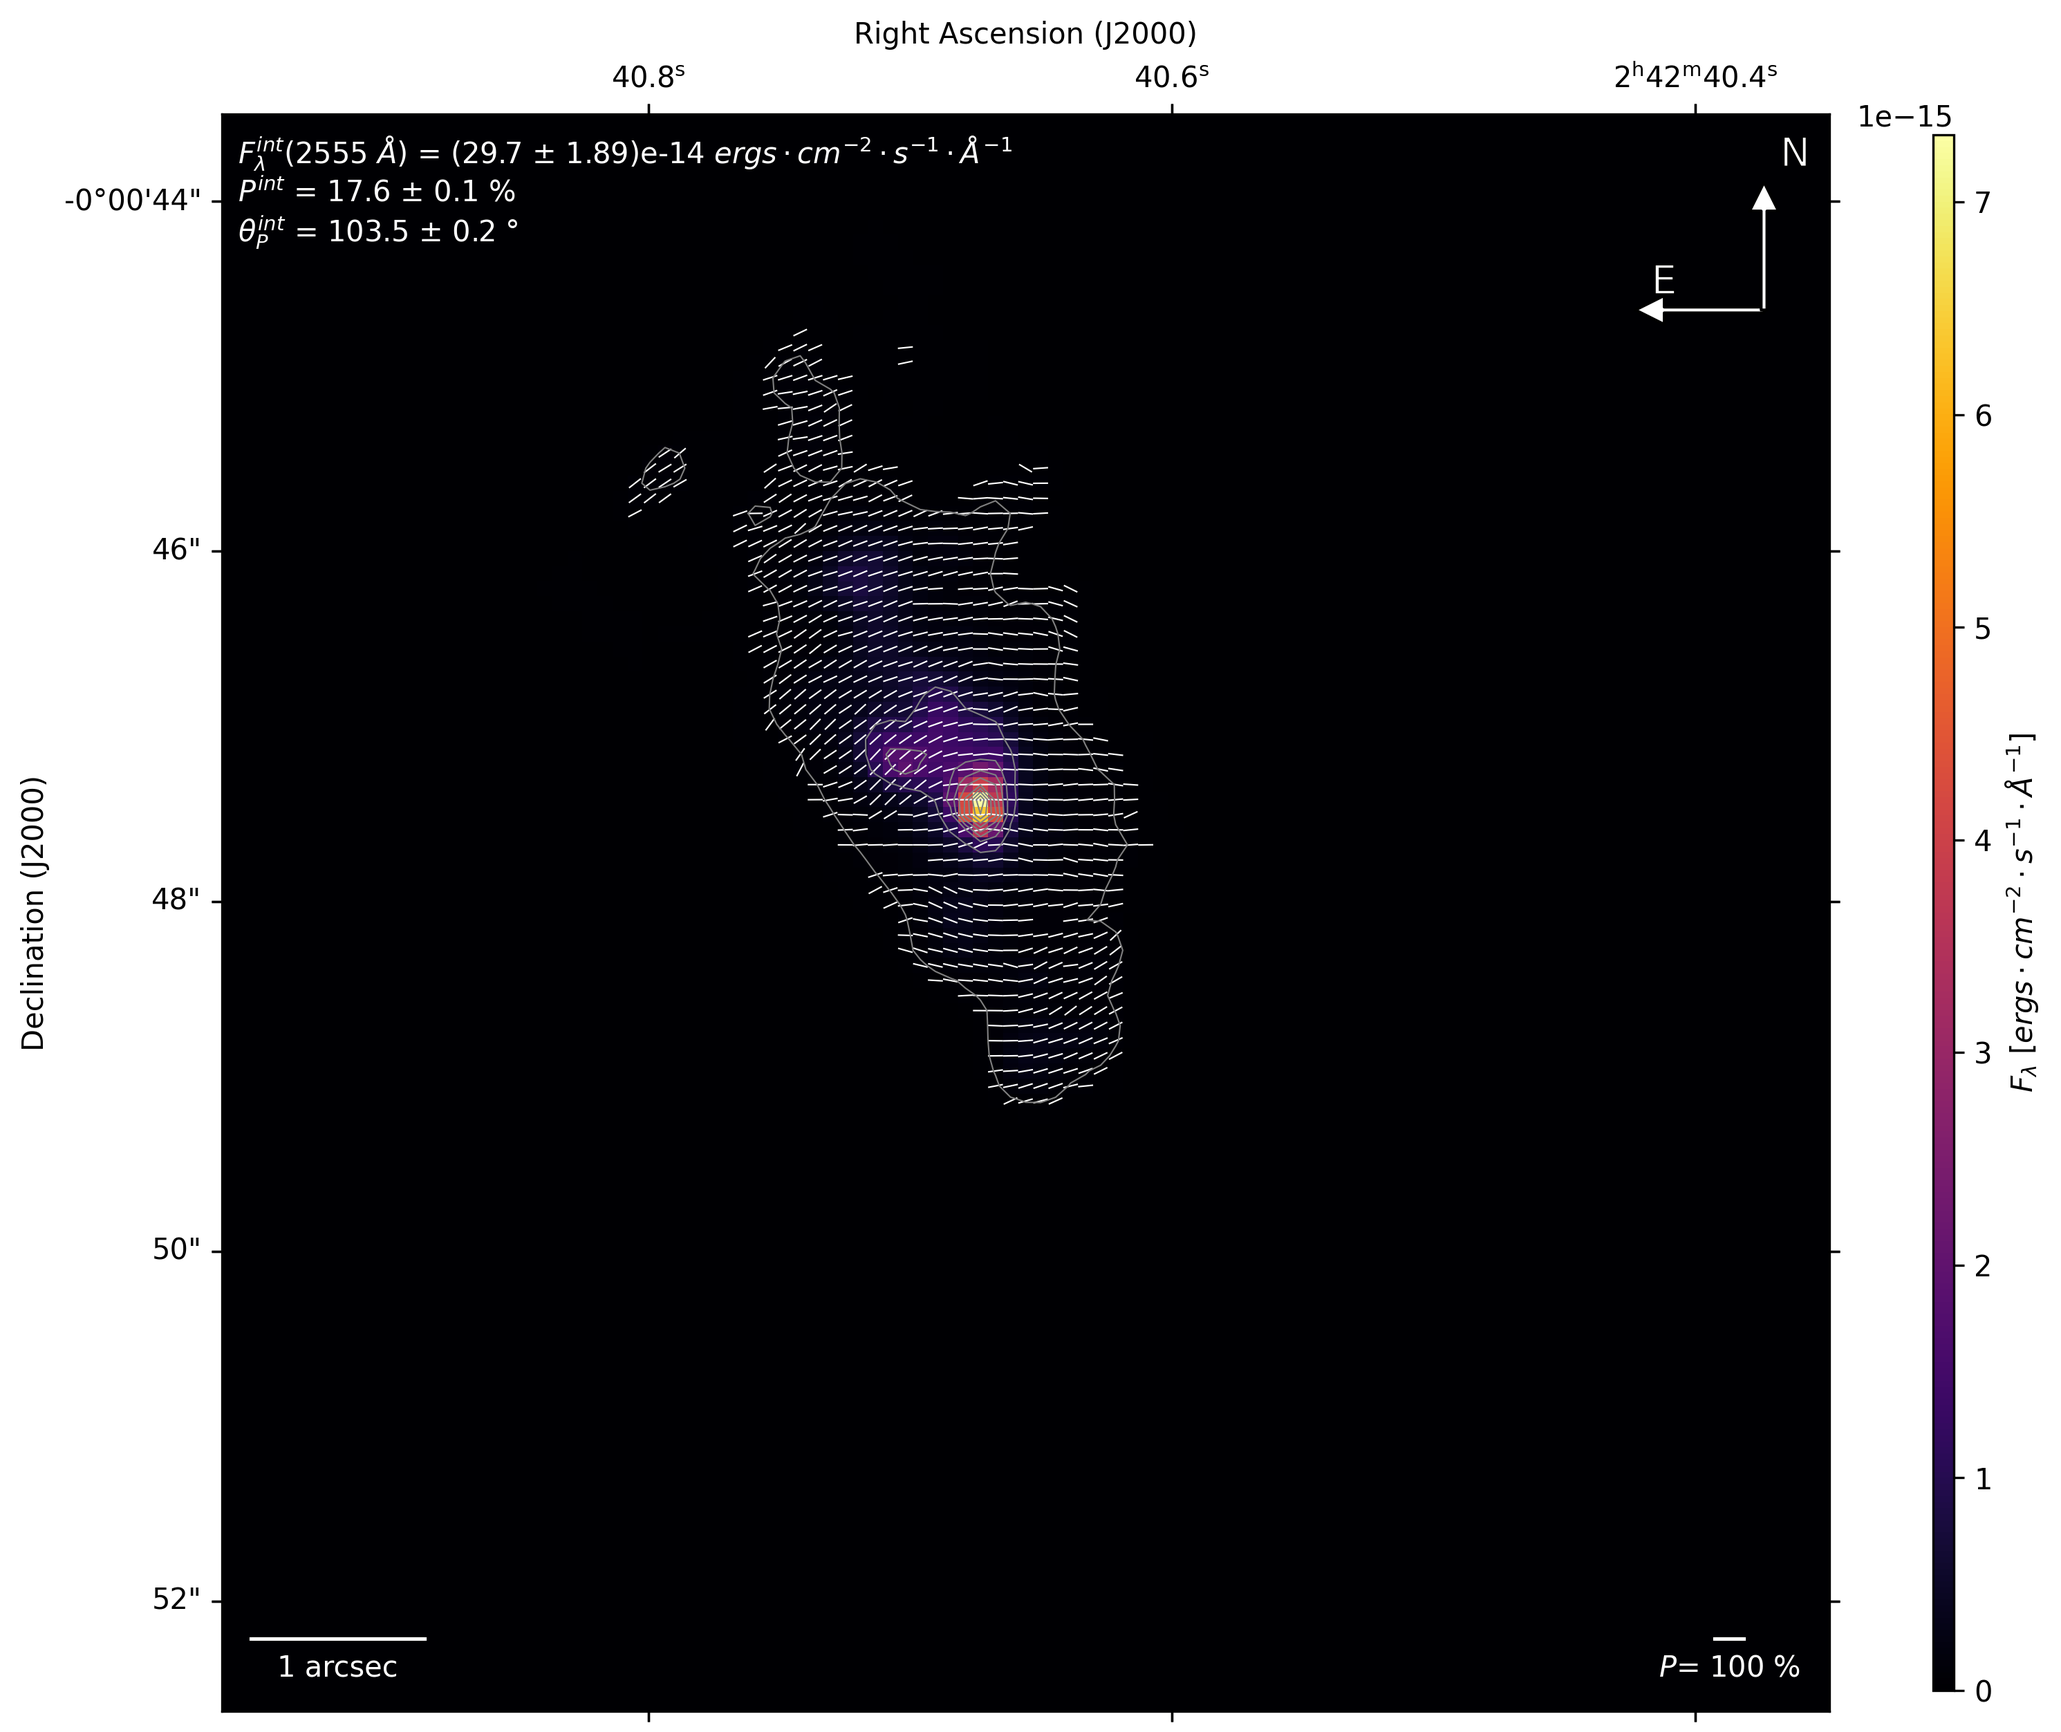
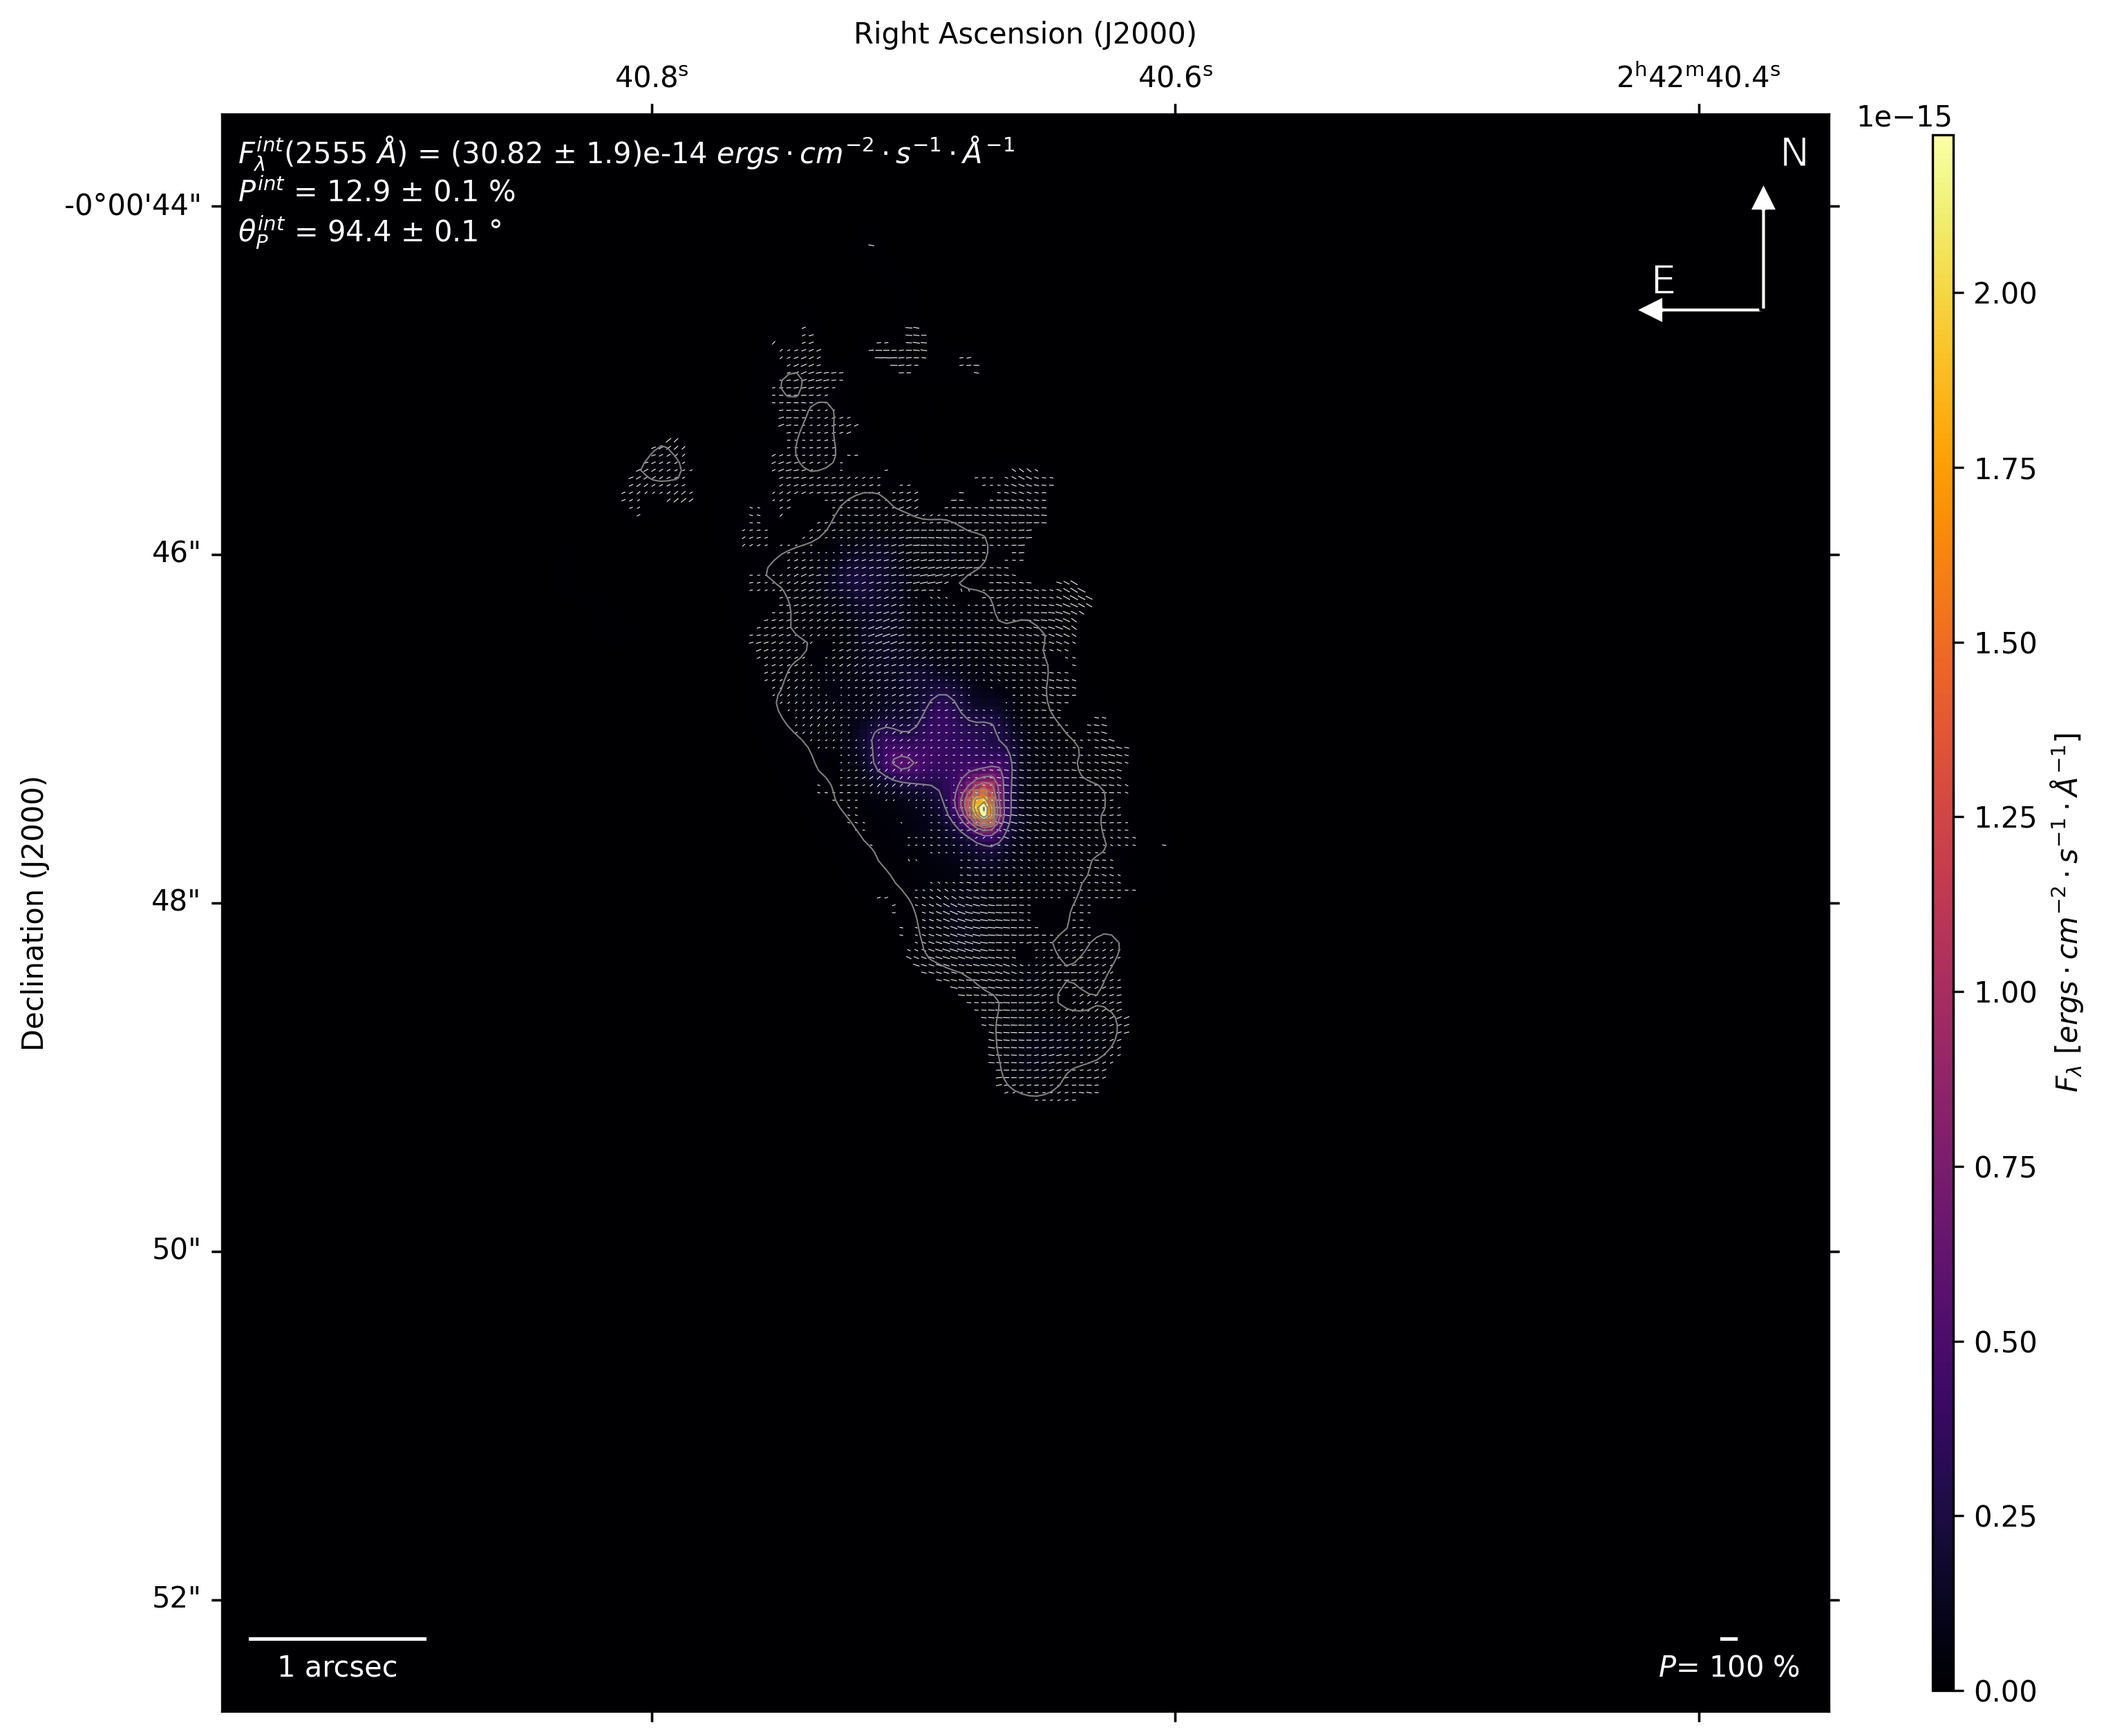
add correction factor for all polarizer filters to have same transmission efficiency

diff --git a/src/comparison_Kishimoto.py b/src/comparison_Kishimoto.py
@@ -49,7 +49,9 @@ for d in [data_S, data_K]:
     d['SNRi'] = np.zeros(d['I'].shape)
     d['SNRi'][d['sI']>0.] = d['I'][d['sI']>0.]/d['sI'][d['sI']>0.]
     d['mask'] = np.logical_and(d['SNRi']>30,d['SNRp']>5)
+data_S['mask'], data_K['mask'] = np.logical_and(data_S['mask'],data_K['mask']), np.logical_and(data_S['mask'],data_K['mask'])
 
+for d in [data_S, data_K]:
     d['X'], d['Y'] = np.meshgrid(np.arange(d['I'].shape[1]), np.arange(d['I'].shape[0]))
     d['xy_U'], d['xy_V'] = np.where(d['mask'],d['P']*np.cos(np.pi/2.+d['PA']*np.pi/180.), np.nan), np.where(d['mask'],d['P']*np.sin(np.pi/2.+d['PA']*np.pi/180.), np.nan)
 
@@ -60,7 +62,6 @@ quiv0 = ax.quiver(data_S['X'],data_S['Y'],data_S['xy_U'],data_S['xy_V'],units='x
 quiv1 = ax.quiver(data_K['X'],data_K['Y'],data_K['xy_U'],data_K['xy_V'],units='xy',angles='uv',scale=0.5,scale_units='xy',pivot='mid',headwidth=0.,headlength=0.,headaxislength=0.,width=0.1,color='r',alpha=0.75, label="PA through Kishimoto's pipeline")
 ax.set_title(r"$SNR_P \geq 5 \; & \; SNR_I \geq 30$")
 fig.legend()
-plt.show()
 
 #compute integrated polarization parameters on a specific cut
 for d in [data_S, data_K]:
@@ -79,8 +80,12 @@ print('From my pipeline :\n', "P = {0:.2f} ± {1:.2f} %\n".format(data_S['P_dil'
 print("From Kishimoto's pipeline :\n", "P = {0:.2f} ± {1:.2f} %\n".format(data_K['P_dil']*100.,data_K['sP_dil']*100.), "PA = {0:.2f} ± {1:.2f} °".format(data_K['PA_dil'],data_K['sPA_dil']))
 
 #compare different types of error
-print("My pipeline : average sI/I={0:.2f} ; sQ/Q={1:.2f} ; sU/U={2:.2f} ; sP/P={3:.2f}".format(np.mean(data_S['sI'][data_S['mask']]/data_S['I'][data_S['mask']]),np.mean(np.abs(data_S['sQ'][data_S['mask']]/data_S['Q'][data_S['mask']])),np.mean(np.abs(data_S['sU'][data_S['mask']]/data_S['U'][data_S['mask']])),np.mean(data_S['sP'][data_S['mask']]/data_S['P'][data_S['mask']])))
-print("Kishimoto's pipeline : average sI/I={0:.2f} ; sQ/Q={1:.2f} ; sU/U={2:.2f} ; sP/P={3:.2f}".format(np.mean(data_K['sI'][data_K['mask']]/data_K['I'][data_K['mask']]),np.mean(np.abs(data_K['sQ'][data_K['mask']]/data_K['Q'][data_K['mask']])),np.mean(np.abs(data_K['sU'][data_K['mask']]/data_K['U'][data_K['mask']])),np.mean(data_K['sP'][data_K['mask']]/data_K['P'][data_K['mask']])))
+xx, yy = np.indices(data_S['mask'].shape)
+mask_ind = np.array([[y,x] for y,x in zip(yy[data_S['mask']],xx[data_S['mask']])])
+index = mask_ind[np.random.randint(len(mask_ind))]
+print("My pipeline : sI/I={0:.2f} ; sQ/Q={1:.2f} ; sU/U={2:.2f} ; sP/P={3:.2f}".format(np.mean(data_S['sI'][index[0],index[1]]/data_S['I'][index[0],index[1]]),np.mean(data_S['sQ'][index[0],index[1]]/data_S['Q'][index[0],index[1]]),np.mean(data_S['sU'][index[0],index[1]]/data_S['U'][index[0],index[1]]),np.mean(data_S['sP'][index[0],index[1]]/data_S['P'][index[0],index[1]])))
+print("Kishimoto's pipeline : sI/I={0:.2f} ; sQ/Q={1:.2f} ; sU/U={2:.2f} ; sP/P={3:.2f}".format(np.mean(data_K['sI'][index[0],index[1]]/data_K['I'][index[0],index[1]]),np.mean(data_K['sQ'][index[0],index[1]]/data_K['Q'][index[0],index[1]]),np.mean(data_K['sU'][index[0],index[1]]/data_K['U'][index[0],index[1]]),np.mean(data_K['sP'][index[0],index[1]]/data_K['P'][index[0],index[1]])))
+print("For random pixel in cut at {}".format(index))
 for d,i in zip(['I','Q','U','P','PA','sI','sQ','sU','sP','sPA'],[0,1,2,5,8,(3,0,0),(3,1,1),(3,2,2),6,9]):
     data_K[d] = np.loadtxt(path_join(root_dir_K,d+'.txt'))
     with fits.open(path_join(root_dir_data_S,'NGC1068_K_FOC_bin10px.fits')) as f:
@@ -94,3 +99,5 @@ for d,i in zip(['I','Q','U','P','PA','sI','sQ','sU','sP','sPA'],[0,1,2,5,8,(3,0,
 #from Kishimoto's pipeline : IQU_dir, IQU_shift, IQU_stat, IQU_trans
 #from my pipeline : raw_bg, raw_flat, raw_psf, raw_shift, raw_wav, IQU_dir
 # but errors from my pipeline are propagated all along, how to compare then ?
+
+plt.show()

diff --git a/src/lib/reduction.py b/src/lib/reduction.py
@@ -509,11 +509,11 @@ def get_error(data_array, headers, error_array=None, data_mask=None,
         background[i] = sub_image.sum()
         if (data_array[i] < 0.).any():
             print(data_array[i])
-        if i==0:
-            np.savetxt("output/s_bg.txt",error_bkg[i])
-            np.savetxt("output/s_wav.txt",err_wav)
-            np.savetxt("output/s_psf.txt",err_psf)
-            np.savetxt("output/s_flat.txt",err_flat)
+        #if i==0:
+            #np.savetext("output/s_bg.txt",error_bkg[i])
+            #np.savetext("output/s_wav.txt",err_wav)
+            #np.savetext("output/s_psf.txt",err_psf)
+            #np.savetext("output/s_flat.txt",err_flat)
 
     if display:
         plt.rcParams.update({'font.size': 10})
@@ -843,8 +843,8 @@ def align_data(data_array, headers, error_array=None, upsample_factor=1.,
         #sum quadratically the errors
         rescaled_error[i] = np.sqrt(rescaled_error[i]**2 + error_shift**2)
             
-        if i==1:
-            np.savetxt("output/s_shift.txt",error_shift)
+        #if i==1:
+            #np.savetext("output/s_shift.txt",error_shift)
 
         shifts.append(shift)
         errors.append(error)
@@ -1204,12 +1204,14 @@ def compute_Stokes(data_array, error_array, data_mask, headers,
             transmit3 = np.min([trans3[header['filtnam3'].lower()] for header in headers])
             transmit4 = np.min([trans4[header['filtnam4'].lower()] for header in headers])
         transmit *= transmit2*transmit3*transmit4
-
         pol_eff = np.array([pol_efficiency['pol0'], pol_efficiency['pol60'], pol_efficiency['pol120']])
+
+        #Calculating correction factor
+        corr = np.array([1.0*h['photflam']/h['exptime'] for h in pol_headers])*pol_headers[0]['exptime']/pol_headers[0]['photflam']
 
         # Orientation and error for each polarizer
         fmax = np.finfo(np.float64).max
-        pol_flux = np.array([pol0, pol60, pol120])
+        pol_flux = np.array([corr[0]*pol0, corr[1]*pol60, corr[2]*pol120])
 
         coeff_stokes = np.zeros((3,3))
         # Coefficients linking each polarizer flux to each Stokes parameter
@@ -1255,9 +1257,9 @@ def compute_Stokes(data_array, error_array, data_mask, headers,
         s_I2_axis = np.sum([dI_dtheta[i]**2 * sigma_theta[i]**2 for i in range(len(sigma_theta))],axis=0)
         s_Q2_axis = np.sum([dQ_dtheta[i]**2 * sigma_theta[i]**2 for i in range(len(sigma_theta))],axis=0)
         s_U2_axis = np.sum([dU_dtheta[i]**2 * sigma_theta[i]**2 for i in range(len(sigma_theta))],axis=0)
-        np.savetxt("output/sI_dir.txt", np.sqrt(s_I2_axis))
-        np.savetxt("output/sQ_dir.txt", np.sqrt(s_Q2_axis))
-        np.savetxt("output/sU_dir.txt", np.sqrt(s_U2_axis))
+        #np.savetext("output/sI_dir.txt", np.sqrt(s_I2_axis))
+        #np.savetext("output/sQ_dir.txt", np.sqrt(s_Q2_axis))
+        #np.savetext("output/sU_dir.txt", np.sqrt(s_U2_axis))
 
         # Add quadratically the uncertainty to the Stokes covariance matrix
         Stokes_cov[0,0] += s_I2_axis
